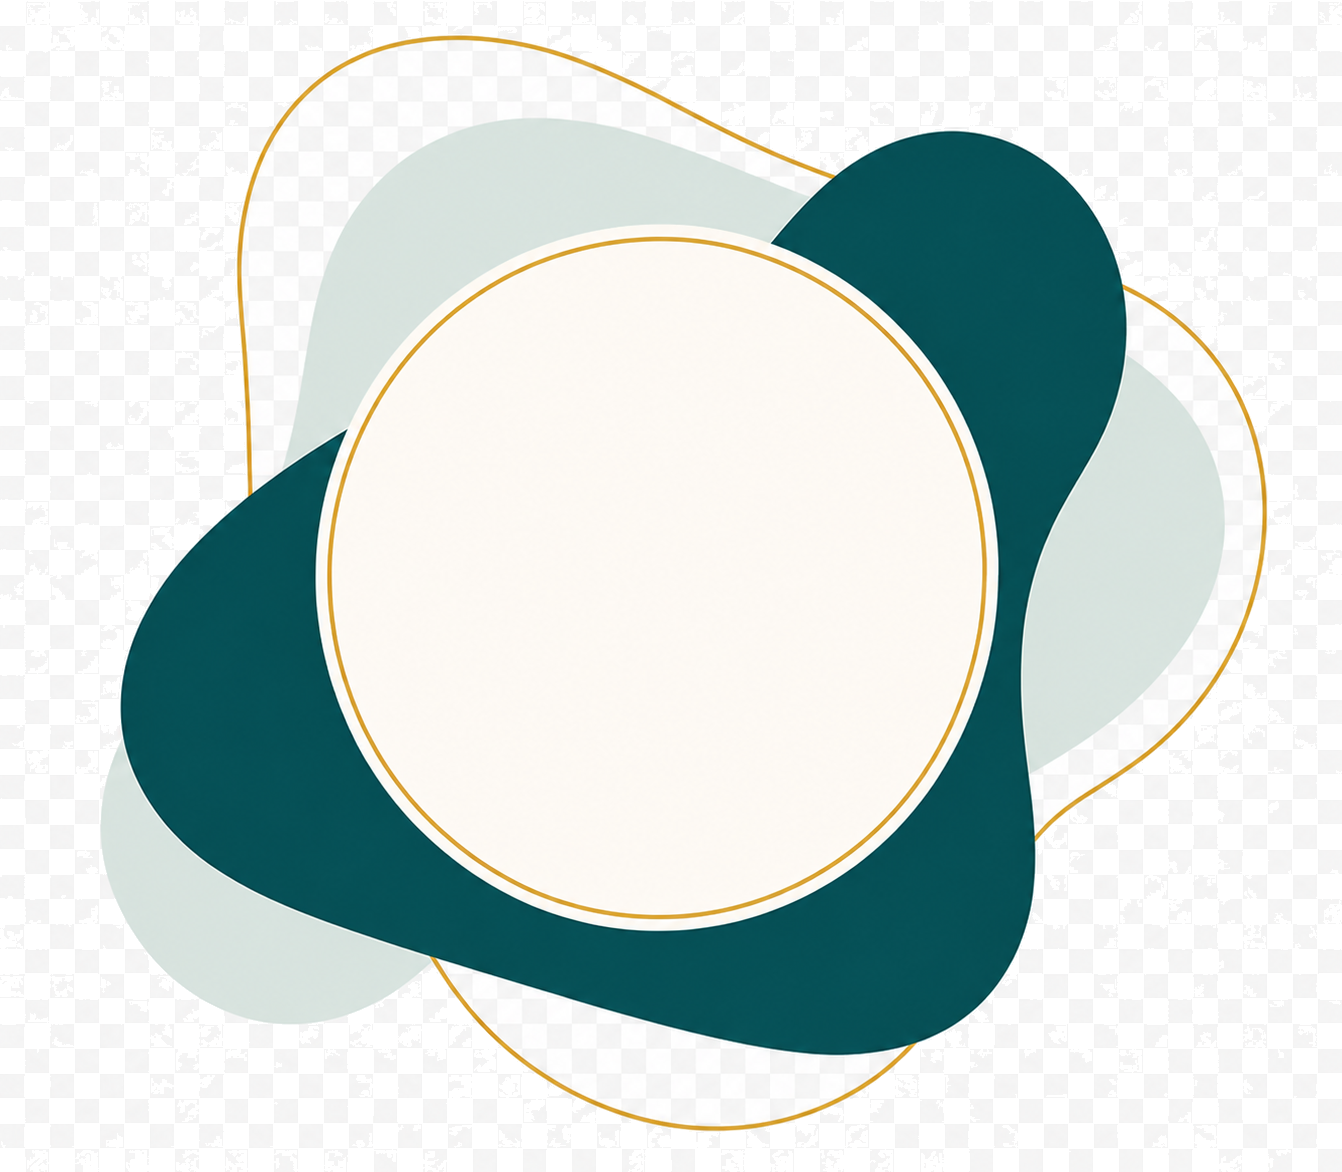
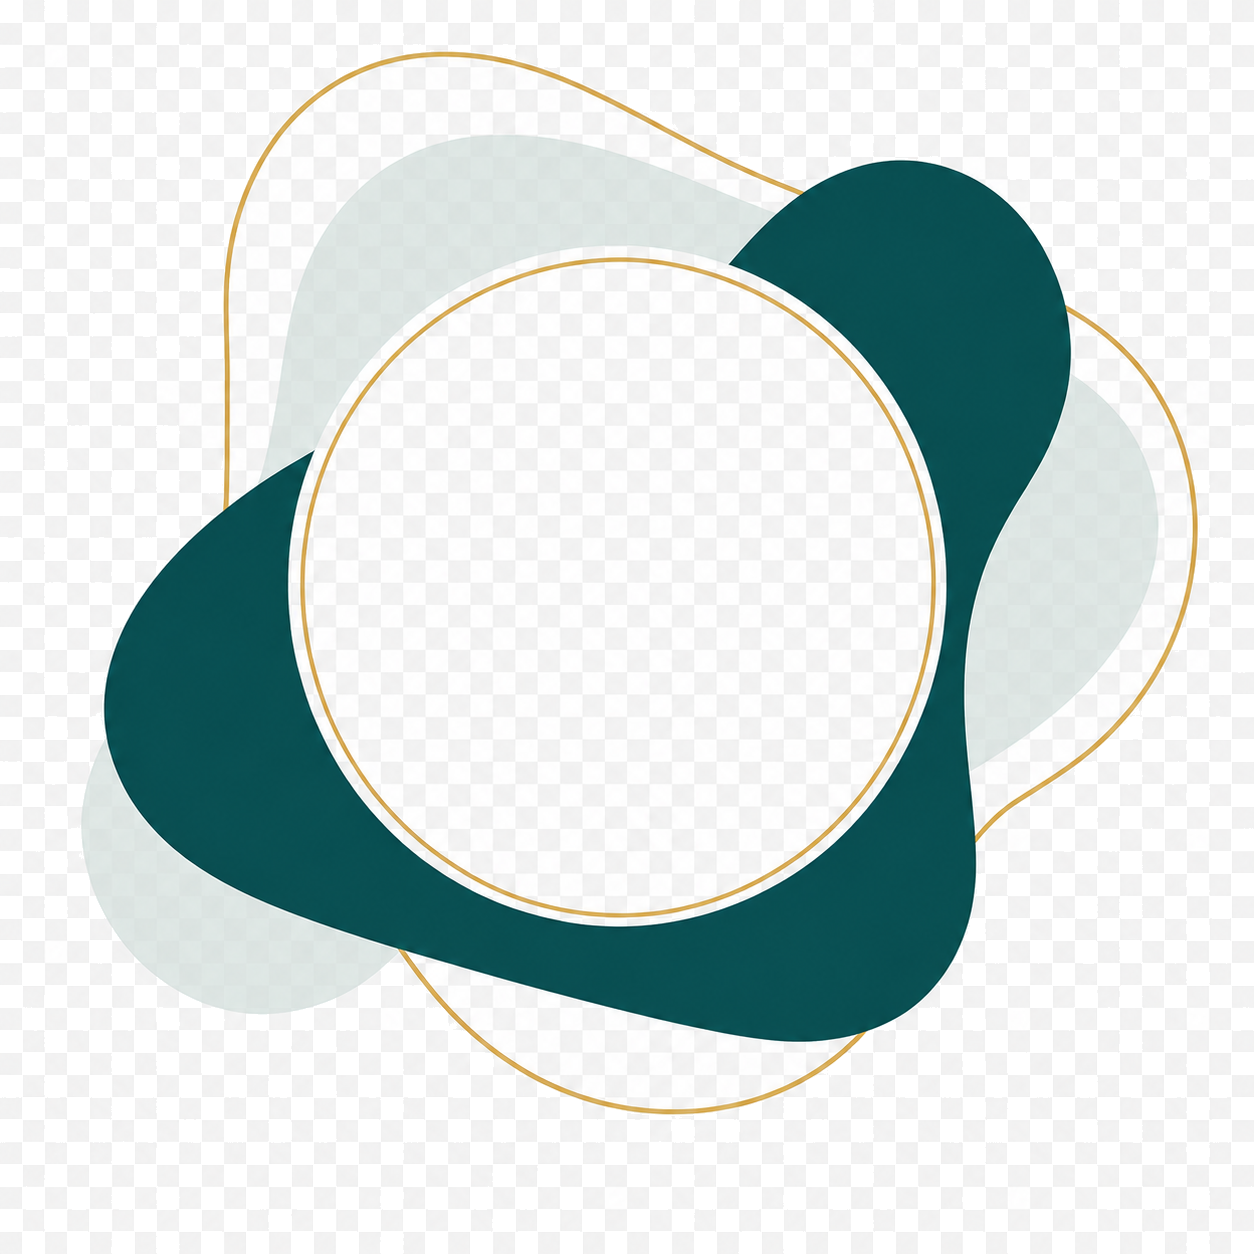
swap to new cream-editorial-blobs (final) artwork
New image is 1254x1254 (square) vs the previous 1342x1172.

Auto-processing on the new asset:
- Ran scripts/process-blob-image.ts: added alpha channel and
  flood-filled 23.6% of pixels to transparent at the corners.
- Ran scripts/analyze-blob-image.ts: cream placeholder centroid
  is at (49.3%, 46.8%) of the image with ~109pt diameter at the
  218pt-wide render.

Template constants updated:
- BLOBS_IMG_HEIGHT: was 190pt (1172/1342 ratio); now 218pt (square)
- PHOTO_CENTER_X: 107 -> 107 (same)
- PHOTO_CENTER_Y_IN_IMG: 94 -> 102 (cream center sits slightly
  higher in the new design)
- PHOTO_SIZE: 90 -> 92 (cream area is marginally larger)

Name + ornament + contacts positions shift automatically with the
new BLOBS_IMG_HEIGHT.

diff --git a/lib/pdf/templates/CreamEditorialTemplate.tsx b/lib/pdf/templates/CreamEditorialTemplate.tsx
@@ -102,19 +102,18 @@ const styles = StyleSheet.create({
   },
 })
 
-// Image dimensions: 1342 x 1172 (aspect ratio ~1.145).
-// Rendered at full column width LEFT_W (218pt), height becomes
-// 218 * 1172/1342 = 190.4pt.
-// Cream-center coordinates measured by the analyze-blob-image.ts
-// script (flood-fills the white region inside the design):
-//   centroid = (49.0%, 49.2%) of image
-//   inner cream diameter = 24.18% of image width = ~105pt
+// Image dimensions: 1254 x 1254 (perfectly square).
+// Rendered at full column width LEFT_W (218pt), so height also 218pt.
+// Cream-center coordinates measured by analyze-blob-image.ts (flood-
+// fills the white region inside the design):
+//   centroid = (49.3%, 46.8%) of image
+//   inner cream diameter = 24.9% of image width = ~108pt
 const BLOBS_IMG_TOP = 40
 const BLOBS_IMG_WIDTH = LEFT_W
-const BLOBS_IMG_HEIGHT = Math.round(LEFT_W * (1172 / 1342))
-const PHOTO_CENTER_X = Math.round(LEFT_W * 0.49)
-const PHOTO_CENTER_Y_IN_IMG = Math.round(BLOBS_IMG_HEIGHT * 0.492)
-const PHOTO_SIZE = 90
+const BLOBS_IMG_HEIGHT = Math.round(LEFT_W * (1254 / 1254))
+const PHOTO_CENTER_X = Math.round(LEFT_W * 0.493)
+const PHOTO_CENTER_Y_IN_IMG = Math.round(BLOBS_IMG_HEIGHT * 0.468)
+const PHOTO_SIZE = 92
 
 const left = StyleSheet.create({
   blobsImage: {